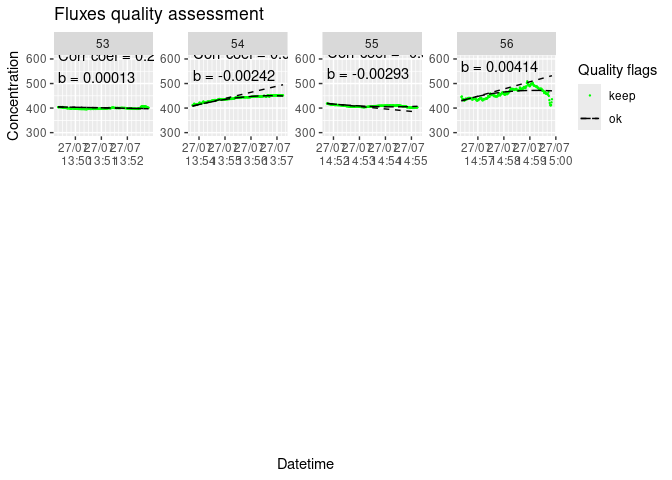
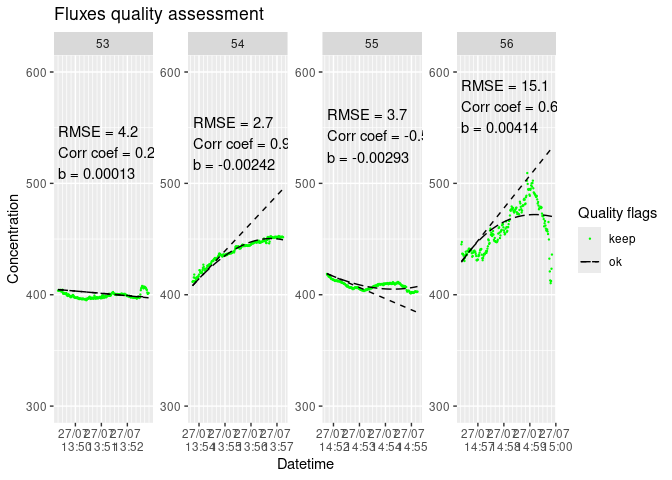
modified figures

diff --git a/README.md b/README.md
@@ -111,7 +111,14 @@ decide to exclude specific fluxes using the ‘weird_fluxes’ argument.
 ``` r
 slopes_lin_liahovden |>
   dplyr::filter(f_fluxID %in% c(53:56)) |> # we just show a sample of the plots to avoid slowing down the example
-flux_plot(fit_type = "lin", print_plot = TRUE, f_plotname = "example_lia", f_ylim_lower = 300, f_ylim_upper = 600)
+    flux_plot(
+      fit_type = "lin",
+      print_plot = TRUE,
+      f_plotname = "example_lia",
+      f_ylim_lower = 300,
+      f_ylim_upper = 600,
+      f_nrow = 1
+      )
 #> [1] "Saving plots in f_quality_plots folder."
 ```
 
@@ -128,7 +135,14 @@ slopes_lin_liahovden_120 <- conc_liahovden |>
 
 slopes_lin_liahovden_120 |>
   dplyr::filter(f_fluxID %in% c(53:56)) |> # we just show a sample of the plots to avoid slowing down the example
-    flux_plot(fit_type = "lin", print_plot = TRUE, f_plotname = "example_lia_lin", f_ylim_lower = 300, f_ylim_upper = 600)
+    flux_plot(
+      fit_type = "lin",
+      print_plot = TRUE,
+      f_plotname = "example_lia_lin",
+      f_ylim_lower = 300,
+      f_ylim_upper = 600,
+      f_nrow = 1
+      )
 #> [1] "Saving plots in f_quality_plots folder."
 ```
 
@@ -188,7 +202,14 @@ The plots will also show the modelled slope at t zero.
 ``` r
 slopes_exp_liahovden |>
   dplyr::filter(f_fluxID %in% c(53:56)) |> # we just show a sample of the plots to avoid slowing down the example
-    flux_plot(fit_type = "exp", print_plot = TRUE, f_plotname = "example_lia_lin", f_ylim_lower = 300, f_ylim_upper = 600)
+    flux_plot(
+      fit_type = "exp",
+      print_plot = TRUE,
+      f_plotname = "example_lia_lin",
+      f_ylim_lower = 300,
+      f_ylim_upper = 600,
+      f_nrow = 1
+      )
 #> [1] "Saving plots in f_quality_plots folder."
 ```
 
@@ -206,32 +227,15 @@ slopes_exp_liahovden_30 <- conc_liahovden |>
 
 slopes_exp_liahovden_30 |>
   dplyr::filter(f_fluxID %in% c(53:56)) |> # we just show a sample of the plots to avoid slowing down the example
-    flux_plot(fit_type = "exp", print_plot = TRUE, f_plotname = "example_lia_lin", f_ylim_lower = 300, f_ylim_upper = 600)
+    flux_plot(
+      fit_type = "exp",
+      print_plot = TRUE,
+      f_plotname = "example_lia_lin",
+      f_ylim_lower = 300,
+      f_ylim_upper = 600,
+      f_nrow = 1
+      )
 #> [1] "Saving plots in f_quality_plots folder."
 ```
 
 <img src="man/figures/README-plot_exp_cut-1.png" width="100%" />
-
-What is special about using `README.Rmd` instead of just `README.md`?
-You can include R chunks like so:
-
-``` r
-summary(cars)
-#>      speed           dist       
-#>  Min.   : 4.0   Min.   :  2.00  
-#>  1st Qu.:12.0   1st Qu.: 26.00  
-#>  Median :15.0   Median : 36.00  
-#>  Mean   :15.4   Mean   : 42.98  
-#>  3rd Qu.:19.0   3rd Qu.: 56.00  
-#>  Max.   :25.0   Max.   :120.00
-```
-
-You’ll still need to render `README.Rmd` regularly, to keep `README.md`
-up-to-date. `devtools::build_readme()` is handy for this.
-
-You can also embed plots, for example:
-
-<img src="man/figures/README-pressure-1.png" width="100%" />
-
-In that case, don’t forget to commit and push the resulting figure
-files, so they display on GitHub and CRAN.
